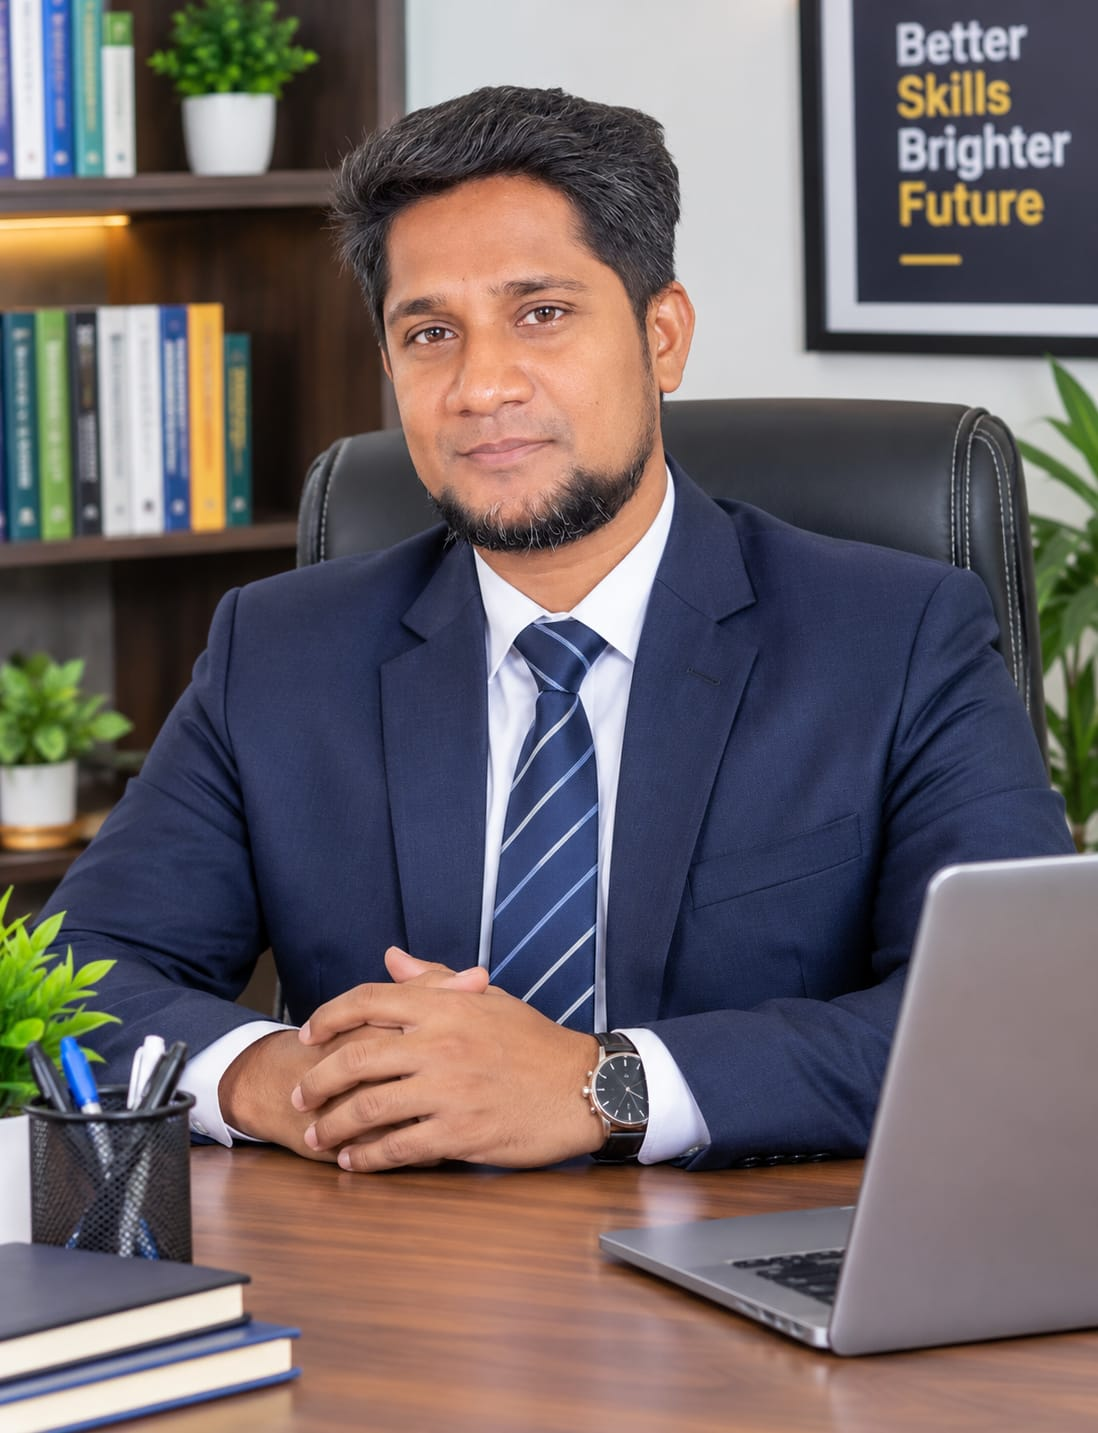
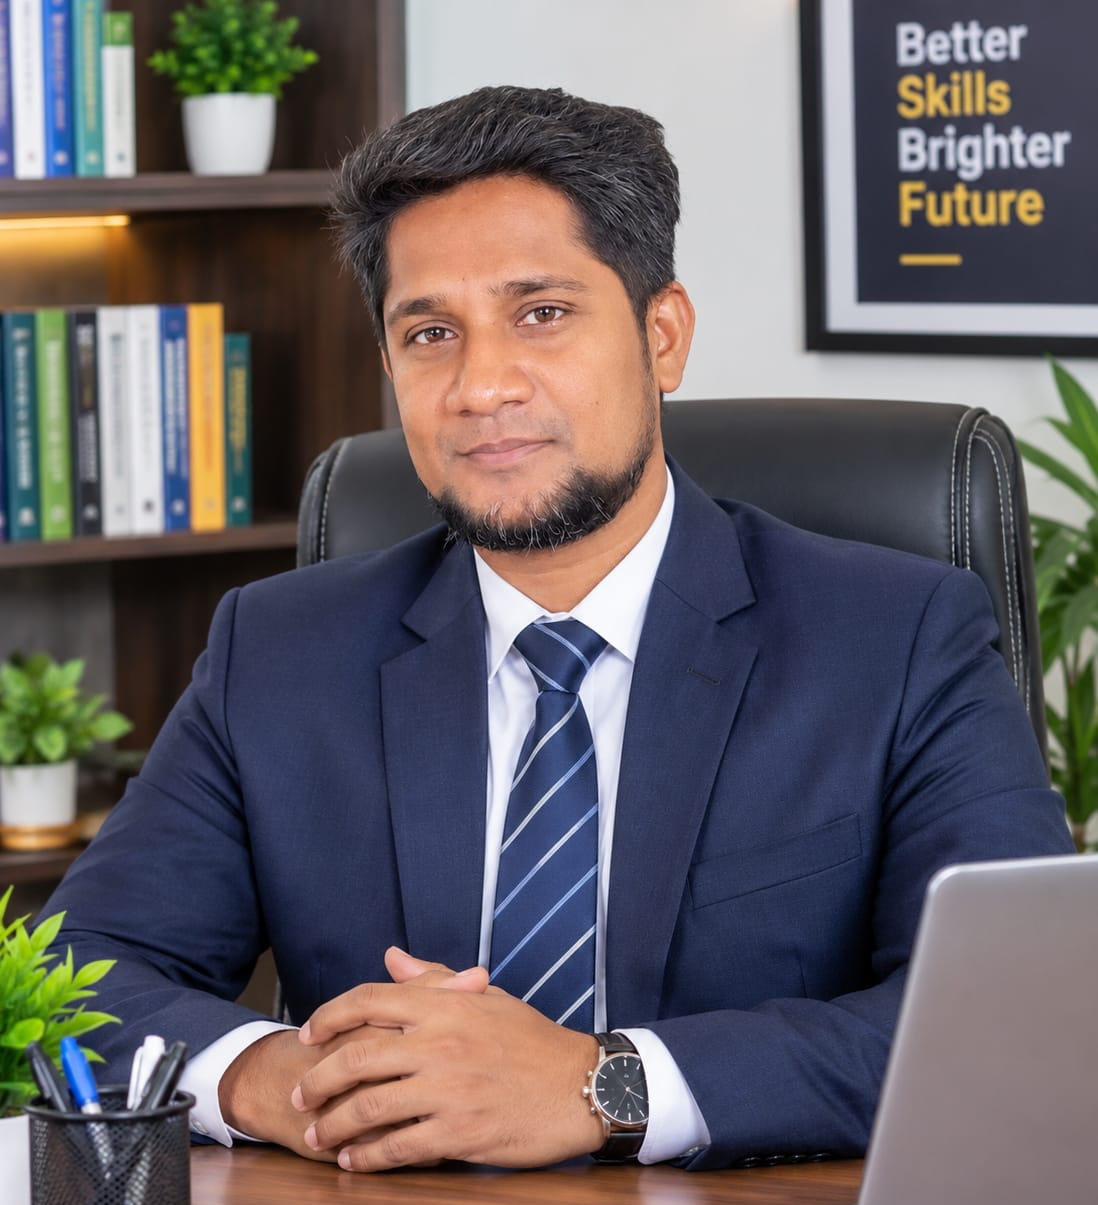
update

diff --git a/src/data/facultyData.js b/src/data/facultyData.js
@@ -6,6 +6,8 @@ import Imran from '../assets/faculty/imran.png'
 import Kasem from '../assets/faculty/kasem.png'
 import Tasin from '../assets/faculty/tasin.png'
 import User from '../assets/faculty/user.png'
+import Tanha from '../assets/faculty/tanha.jpeg'
+import Mosiur from '../assets/faculty/mosiur.png'
 const facultyData = [
   {
     id: 1,
@@ -235,7 +237,7 @@ bio: "",
   {
   id: 7,
   name: "Tanha Mehedi",
-  img: User,
+  img: Tanha,
   sub: "Computer Office Application",
 
   designation: "Computer Office Application Instructor",
@@ -274,32 +276,35 @@ bio: "",
   },
 },
 {
-  id: 7,
-  name: "Rasel Khan",
-  img: User,
-  sub: "Mathematics",
+  id: 8,
+  name: "Md Mosiur Rahman",
+  img: Mosiur,
+  sub: "Japanese Language",
 
-  designation: "Mathematics Instructor",
+  designation: "Japanese Language Instructor",
   experience: "16 Years Experience",
 
   education: "M.A",
 
-  bio: "An experienced Mathematics Instructor with 16 years of teaching experience. Specializes in mathematical concepts, problem-solving techniques, algebra, geometry, arithmetic, and logical reasoning. Dedicated to helping students build strong mathematical foundations, improve analytical skills, and develop confidence in solving mathematical problems.",
+  bio: "An experienced Japanese Language Instructor dedicated to helping students develop Japanese language skills. Focuses on Japanese vocabulary, grammar, pronunciation, reading, writing, listening, and speaking. Aims to help students improve their communication skills and build a strong foundation in the Japanese language.",
 
   skills: [
-    "Basic Mathematics",
-    "Arithmetic",
-    "Algebra",
-    "Geometry",
-    "Mathematical Problem Solving",
-    "Logical Reasoning",
-    "Analytical Thinking",
-    "Mathematics Teaching",
+    "Japanese Grammar",
+    "Japanese Vocabulary",
+    "Japanese Speaking",
+    "Japanese Pronunciation",
+    "Japanese Reading",
+    "Japanese Writing",
+    "Listening Comprehension",
+    "Japanese Communication Skills",
   ],
 
   courses: [
-    " Mathematics",
-    
+    "Japanese Language",
+    "Basic Japanese",
+    "Japanese Grammar",
+    "Japanese Vocabulary",
+    "Japanese Speaking Practice",
   ],
 
   email: "Empty",
